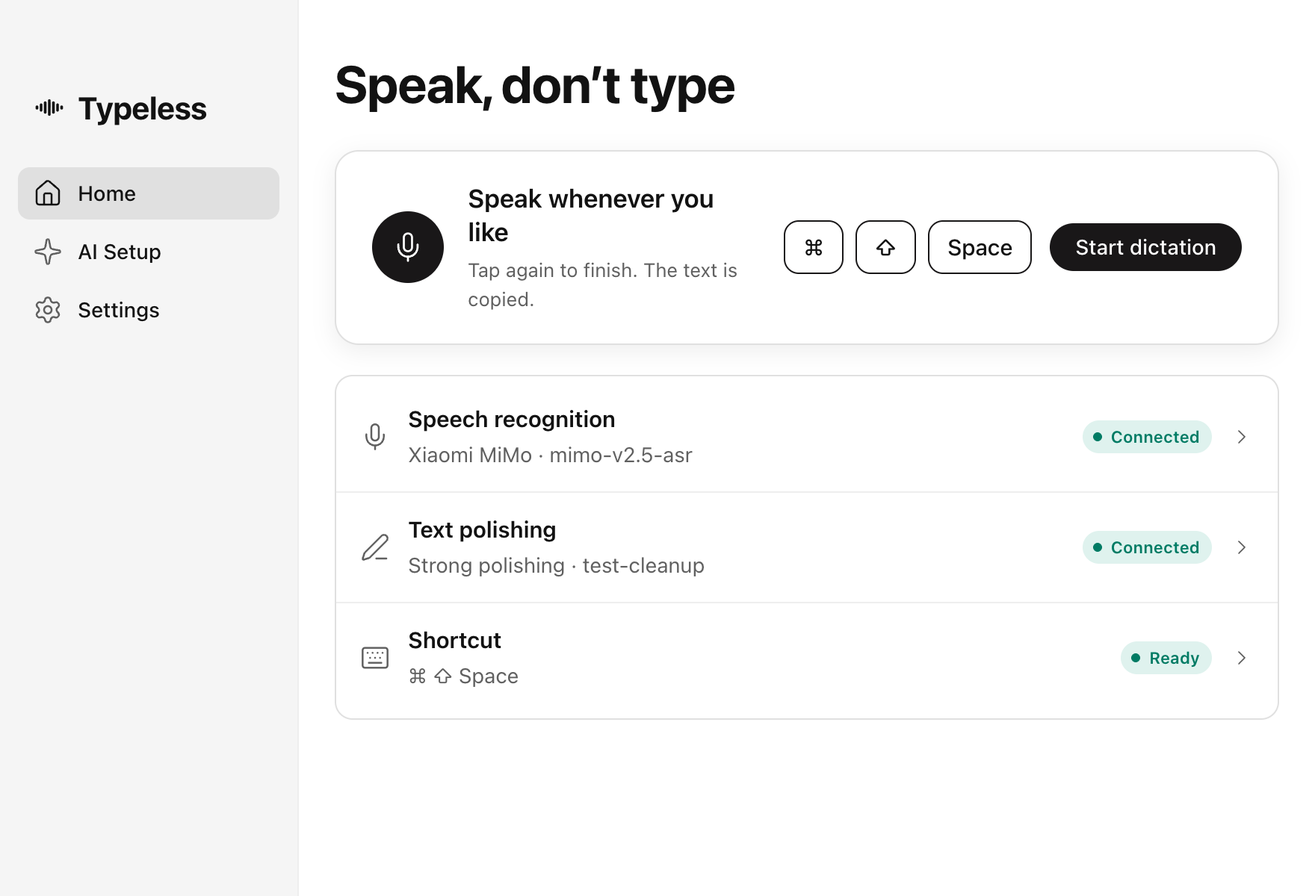
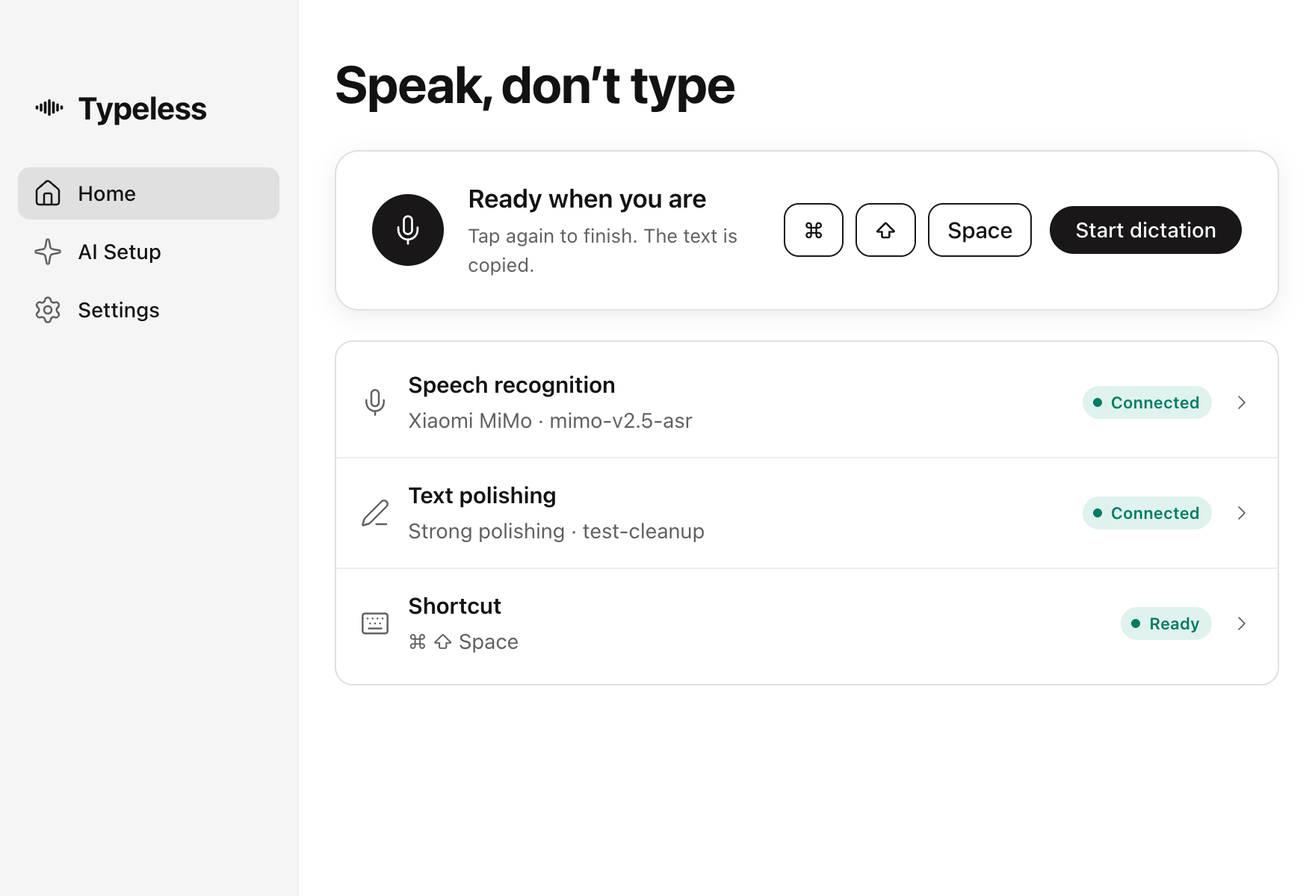
Review the English interface copy and release 2.3.0
- Re-read every English string against its Chinese source and revise 26
  of them: natural wording for titles and hints (Ready when you are,
  Stop dictation, detect the Fn key), shorter badge texts, consistent
  "System input helper", and US spelling throughout the catalogue
- Bump the version to 2.3.0, point the user guide, proposal and
  validation record at the new packages, and record the 2.3.0
  verification: 115 unit tests, 41 desktop e2e checks and 5 delivery
  scenarios in development and from the mounted DMG
- Refresh the English and 基本设置 screenshots from the 2.3.0 run

diff --git a/src/renderer/i18n/messages/onboarding.ts b/src/renderer/i18n/messages/onboarding.ts
@@ -99,7 +99,7 @@ export const onboarding = defineMessages({
     'onboarding.reopen': 'Reopen Typeless',
 
     'onboarding.welcome.title': 'Welcome to Typeless',
-    'onboarding.welcome.subtitle': 'Speak instead of typing',
+    'onboarding.welcome.subtitle': 'Speak, don\u2019t type',
     'onboarding.welcome.start': 'Get started',
     'onboarding.welcome.skip': 'Skip the guide',
 
@@ -117,16 +117,16 @@ export const onboarding = defineMessages({
     'onboarding.permissions.inputMonitoring': 'Shortcut still not working? Use Input Monitoring instead',
     'onboarding.permissions.why': 'Why this permission is needed',
     'onboarding.permissions.privacyCaption': 'System Settings → Privacy & Security',
-    'onboarding.permissions.stale': 'The system shows the permission as granted, but Fn listening is not active yet. Reopen Typeless first. If it still shows as pending, the grant is left over from an earlier version: remove Typeless from Accessibility and Input Monitoring under System Settings → Privacy & Security, then add it again.',
+    'onboarding.permissions.stale': 'The system shows the permission as granted, but Fn is not being detected yet. Reopen Typeless first. If it still shows as pending, the grant is left over from an earlier version: remove Typeless from Accessibility and Input Monitoring under System Settings → Privacy & Security, then add it again.',
     'onboarding.permissions.microphone.title': 'Allow Typeless to use the microphone',
     'onboarding.permissions.microphone.body': 'The microphone is used only while you dictate with the shortcut.',
     'onboarding.permissions.microphone.hint': 'System Settings → Privacy & Security → Microphone → turn on Typeless',
     'onboarding.permissions.microphone.denied': 'The system denied microphone access. Turn it on in System Settings, then come back.',
-    'onboarding.permissions.accessibility.title': 'Allow Typeless to paste text and watch the Fn key',
-    'onboarding.permissions.accessibility.body': 'Typeless needs Accessibility to paste the result into the current text field and to recognise a single Fn press.',
+    'onboarding.permissions.accessibility.title': 'Allow Typeless to paste text and detect the Fn key',
+    'onboarding.permissions.accessibility.body': 'Typeless needs Accessibility to paste the result into the current text field and to detect a single Fn press.',
     'onboarding.permissions.accessibility.hint': 'System Settings → Privacy & Security → Accessibility → turn on Typeless',
     'onboarding.permissions.helper.title': 'Enable the system input helper',
-    'onboarding.permissions.helper.body': 'Typeless uses a built-in helper to recognise Right Alt and paste text. No extra permission is needed.',
+    'onboarding.permissions.helper.body': 'Typeless uses a built-in helper to recognize Right Alt and paste text. No extra permission is needed.',
     'onboarding.permissions.helper.denied': 'The helper is unavailable. Use the fallback shortcut for now.',
 
     'onboarding.microphone.title': 'Say a few words to test the microphone',
@@ -134,7 +134,7 @@ export const onboarding = defineMessages({
     'onboarding.microphone.prompt': 'Do the blue bars move while you speak?',
     'onboarding.microphone.systemDefault': 'System default',
     'onboarding.microphone.device': 'Microphone {index}',
-    'onboarding.microphone.failed': 'Could not use the microphone. Check whether another app is holding it.',
+    'onboarding.microphone.failed': 'Could not use the microphone. Check whether another app is using it.',
     'onboarding.microphone.detected': 'Sound detected',
     'onboarding.microphone.needsPermission': 'First allow Typeless to use the microphone',
 
@@ -145,15 +145,15 @@ export const onboarding = defineMessages({
     'onboarding.shortcut.pressNow': 'Press {key} now',
     'onboarding.shortcut.detected': '{key} detected',
     'onboarding.shortcut.fallback': 'Fallback shortcut',
-    'onboarding.shortcut.working': 'The shortcut works.',
-    'onboarding.shortcut.notReady': '{key} listening is not ready yet. Use the fallback shortcut for now, and check Settings later.',
+    'onboarding.shortcut.working': 'Great, the shortcut works.',
+    'onboarding.shortcut.notReady': '{key} is not being detected yet. Use the fallback shortcut for now; you can check again in Settings later.',
     'onboarding.shortcut.fallbackRow': 'Fallback shortcut · always available',
 
-    'onboarding.capsule.caption': 'It appears at the bottom of the screen while you dictate',
+    'onboarding.capsule.caption': 'Appears at the bottom of the screen while you dictate',
 
     'onboarding.done.readyTitle': 'Everything is ready',
     'onboarding.done.pendingTitle': 'One last step',
-    'onboarding.done.pendingSubtitle': 'Connect a speech recognition service and you can speak in any app.',
+    'onboarding.done.pendingSubtitle': 'Connect a speech recognition service, then speak in any app.',
     'onboarding.done.later': 'Later',
     'onboarding.done.start': 'Start using Typeless',
     'onboarding.done.connect': 'Connect AI services',
@@ -170,10 +170,10 @@ export const onboarding = defineMessages({
     'onboarding.status.unavailable': 'Unavailable',
     'onboarding.status.unavailableNow': 'Unavailable right now',
     'onboarding.status.coveredByAccessibility': 'Covered by Accessibility',
-    'onboarding.status.helperReconnecting': 'The helper is reconnecting',
+    'onboarding.status.helperReconnecting': 'Helper reconnecting',
     'onboarding.status.accessibilityNeeded': 'Grant Accessibility (after an update, remove the old entry and add it again)',
-    'onboarding.status.tapInactive': 'Listening is not active. Check the permissions.',
-    'onboarding.status.relaunchRequired': 'Granted, but listening is not active',
-    'onboarding.status.bindingMismatch': 'The shortcut change has not taken effect',
+    'onboarding.status.tapInactive': 'Not listening yet. Check the permissions.',
+    'onboarding.status.relaunchRequired': 'Granted, but not listening yet',
+    'onboarding.status.bindingMismatch': 'Shortcut change not applied yet',
   },
 });

diff --git a/src/renderer/i18n/messages/settings.ts b/src/renderer/i18n/messages/settings.ts
@@ -125,12 +125,12 @@ export const settings = defineMessages({
     'settings.providers.saving': 'Saving…',
     'settings.providers.saveRejected': 'Save failed. Check the service settings and try again.',
     'settings.providers.saveFailed': 'Save failed. Please try again.',
-    'settings.providers.removeFailed': 'Remove failed. Please try again.',
+    'settings.providers.removeFailed': 'Could not remove the key. Please try again.',
 
     'settings.writing.level.label': 'Polishing level',
     'settings.writing.instructions.label': 'Personal instructions',
     'settings.writing.instructions.placeholder': 'For example: keep English technical terms, and write in simplified Chinese.',
-    'settings.writing.instructions.inactive': 'Takes effect once polishing is on. Your text is kept either way.',
+    'settings.writing.instructions.inactive': 'Takes effect once polishing is on; your instructions are kept in the meantime.',
     'settings.writing.instructions.hint': 'Saves when you leave the field, or press ⌘ / Ctrl + Enter.',
 
     'settings.autosave.saving': 'Saving…',
@@ -140,7 +140,7 @@ export const settings = defineMessages({
     'settings.shortcut.group': 'Shortcut',
     'settings.shortcut.primary.label': 'Primary shortcut',
     'settings.shortcut.primary.description': 'Tap once to start, tap again to stop.',
-    'settings.shortcut.primary.option': '{key} · tap to start, tap to stop',
+    'settings.shortcut.primary.option': '{key} · tap to start or stop',
     'settings.shortcut.primary.off': 'Off',
     'settings.shortcut.reopen': 'Reopen Typeless',
     'settings.shortcut.fallback.label': 'Fallback shortcut',
@@ -188,8 +188,8 @@ export const settings = defineMessages({
     'settings.about.downloading': 'Downloading…',
     'settings.about.openInstaller': 'Open installer',
     'settings.about.releaseNotes': 'Release notes',
-    'settings.about.install.windows': 'Unzip it, run Typeless.exe and overwrite the old files.',
-    'settings.about.install.mac': 'Open the installer, drag Typeless into the Applications folder and reopen it. After an upgrade you have to allow Accessibility again.',
+    'settings.about.install.windows': 'Unzip the archive, replacing the old files, then run Typeless.exe.',
+    'settings.about.install.mac': 'Open the installer, drag Typeless into the Applications folder and reopen it. After upgrading, allow Accessibility again.',
     'settings.about.error.network': 'Could not reach GitHub. Please try again later.',
     'settings.about.error.invalidResponse': 'GitHub returned a response that could not be read.',
     'settings.about.error.noAsset': 'This release has no installer for your system.',

diff --git a/src/renderer/i18n/messages/session.ts b/src/renderer/i18n/messages/session.ts
@@ -60,17 +60,17 @@ export const session = defineMessages({
     'session.recovery.asr_429': 'Too many requests to the speech service. Try again in a moment.',
     'session.recovery.asr_network': 'Could not reach the speech service. Check the network and the service address.',
     'session.recovery.asr_timeout': 'The speech service timed out. You can retry; a retry may be billed again.',
-    'session.recovery.asr_audio': 'The recording could not be recognised. Record it again.',
+    'session.recovery.asr_audio': 'The recording could not be recognized. Record it again.',
     'session.recovery.asr_failed': 'Speech recognition did not finish. Try again later.',
     'session.recovery.asr_provider': 'The speech service returned no usable text. Record again or retry.',
     'session.recovery.clipboard_copy_failed': 'Automatic copying failed. The text is kept below and can be copied again.',
-    'session.recovery.cancelled': 'Recording cancelled.',
+    'session.recovery.cancelled': 'Recording canceled.',
     'session.recovery.asr_5xx': 'The speech service is temporarily unavailable. Try again later.',
     'session.recovery.generic': 'Dictation did not finish. Try again; if it keeps failing, check the model and microphone settings.',
     'session.recovery.copiedReady': 'Copied. You can paste it now.',
     'session.recovery.textKept': 'The text is kept and can be copied below.',
-    'session.warning.cleanupNotConfigured': 'No polishing model is set up, so the recognised text was kept as is.',
-    'session.warning.cleanupFailed': 'Polishing did not finish, so the recognised text was kept as is.',
+    'session.warning.cleanupNotConfigured': 'No polishing model is set up, so the recognized text was kept as is.',
+    'session.warning.cleanupFailed': 'Polishing did not finish, so the recognized text was kept as is.',
     'session.warning.numbersChanged': 'Numbers changed during polishing. Compare with the original.',
     'session.warning.expanded': 'The polished text is much longer. Compare with the original.',
     'session.warning.formatting': 'The result contains extra formatting. Compare with the original.',

diff --git a/src/renderer/i18n/messages/home.ts b/src/renderer/i18n/messages/home.ts
@@ -59,7 +59,7 @@ export const home = defineMessages({
     'home.status.ready': 'Ready',
     'home.status.unavailable': 'Unavailable',
     'home.dictation.region': 'Dictation',
-    'home.dictation.readyTitle': 'Speak whenever you like',
+    'home.dictation.readyTitle': 'Ready when you are',
     'home.dictation.setupTitle': 'Connect your AI model first',
     'home.dictation.setupHint': 'Set up speech recognition; polishing is optional.',
     'home.dictation.shortcutUnavailable': 'The shortcut is unavailable right now; use the button instead.',
@@ -67,7 +67,7 @@ export const home = defineMessages({
     'home.dictation.finishCopy': 'Tap again to finish. The text is copied.',
     'home.dictation.listening': 'Listening · {time}',
     'home.dictation.start': 'Start dictation',
-    'home.dictation.stop': 'Stop',
+    'home.dictation.stop': 'Stop dictation',
     'home.dictation.processing': 'Processing',
     'home.dictation.configure': 'Set up speech',
     'home.dictation.cancel': 'Cancel dictation',
@@ -84,7 +84,7 @@ export const home = defineMessages({
     'home.session.inserting': 'Copying and pasting',
     'home.session.ready': 'Result ready',
     'home.session.error': 'Did not finish',
-    'home.session.cancelled': 'Recording cancelled',
+    'home.session.cancelled': 'Recording canceled',
     'home.overlay.processing': 'Processing',
     'home.overlay.thinking': 'Thinking',
     'home.overlay.finish': 'Finish dictation',

diff --git a/src/renderer/i18n/messages/common.ts b/src/renderer/i18n/messages/common.ts
@@ -49,12 +49,12 @@ export const common = defineMessages({
     'common.shell.connectionLost': 'Connection lost. Please try again.',
     'common.shell.copyFailed': 'Copy failed. Please try again.',
     'common.shell.dictationIncomplete': 'Dictation did not finish. See the note above.',
-    'common.shell.actionFailed': 'The action did not complete. Please try again.',
+    'common.shell.actionFailed': 'The action could not be completed. Please try again.',
     'common.shell.dismiss': 'Dismiss',
     'common.shell.previewBanner': 'Interface preview · no model calls, no saved keys',
     'common.shell.previewOnly': 'Recording and system features work in the desktop app only.',
     'common.writing.none.label': 'No polishing',
-    'common.writing.none.hint': 'Keep the transcript as recognised; the polishing model is not called.',
+    'common.writing.none.hint': 'Keep the transcript as recognized; the polishing model is not called.',
     'common.writing.light.label': 'Light polishing',
     'common.writing.light.hint': 'Remove fillers and small repetitions; keep your own wording.',
     'common.writing.strong.label': 'Strong polishing',

diff --git a/docs/VALIDATION.md b/docs/VALIDATION.md
@@ -1,6 +1,6 @@
-# Version 2.2.1 Validation
+# Version 2.3.0 Validation
 
-Reviewed on 2026-09-18 for 2.0.0 and revised on 2026-09-22 for the 2.1.1 packages (setup guide, stale-grant guidance) and again the same day for the 2.2.0 packages (white simplified interface, three destinations, release check) and the 2.2.1 packages (关于 row note placement, live release check); on 2026-09-23 the bilingual interface, the user-facing README and the MIT license were verified on the source tree without a new package. The 2.0.0 evidence in this section is kept for the dictation behaviour it qualifies; the interface it photographed has since been simplified as recorded in the 2.2.0 section below. This record covers the dictation product with the redesigned interface: the two-column shell specified in [UI design](UI_DESIGN.md) (**首页**, **AI 配置**, **基本设置**, **表达风格**), grouped setting rows, and the black voice capsule. Recording, ASR, optional polishing, retained clipboard output and optional paste into the current foreground application are unchanged from 0.1.5. Historical receipts for earlier versions remain in Git and do not qualify this version.
+Reviewed on 2026-09-18 for 2.0.0 and revised on 2026-09-22 for the 2.1.1 packages (setup guide, stale-grant guidance) and again the same day for the 2.2.0 packages (white simplified interface, three destinations, release check) and the 2.2.1 packages (关于 row note placement, live release check); on 2026-09-23 the 2.3.0 packages (bilingual interface, user-facing README, MIT license) were verified. The 2.0.0 evidence in this section is kept for the dictation behaviour it qualifies; the interface it photographed has since been simplified as recorded in the 2.2.0 section below. This record covers the dictation product with the redesigned interface: the two-column shell specified in [UI design](UI_DESIGN.md) (**首页**, **AI 配置**, **基本设置**, **表达风格**), grouped setting rows, and the black voice capsule. Recording, ASR, optional polishing, retained clipboard output and optional paste into the current foreground application are unchanged from 0.1.5. Historical receipts for earlier versions remain in Git and do not qualify this version.
 
 ## Current evidence
 
@@ -92,32 +92,33 @@ Requested after the live GitHub verification recorded above. Source changes: `sr
 - The 2.2.1 packages themselves were not pointed at the live GitHub endpoint; the live observations above used the packaged 2.2.0 build and checker code that did not change in 2.2.1. A 2.2.0 installation showing the 有新版本 2.2.1 pill after Release v2.2.1 is published has not been observed yet.
 - The 2.2.0 limits (asset rule coverage, unphotographed `downloading` / `error` states, Windows runtime) still apply.
 
-## Bilingual interface, user-facing README and MIT license (source tree, 2026-09-23)
+## Bilingual interface, user-facing README and MIT license (2.3.0, 2026-09-23)
 
-Requested after 2.2.1: every piece of interface copy in Chinese and English with a user-facing switch, a short README for GitHub visitors with the build content moved to [Development](DEVELOPMENT.md), and the MIT license. Specified in [UI design](UI_DESIGN.md) section 14. Dictation, providers, storage and the guide flow are unchanged; the settings schema gains `general.language` (default `zh`). No package was built for this change; the checks below ran on the source tree.
+Requested after 2.2.1: every piece of interface copy in Chinese and English with a user-facing switch, a short README for GitHub visitors with the build content moved to [Development](DEVELOPMENT.md), and the MIT license. Specified in [UI design](UI_DESIGN.md) section 14. Dictation, providers, storage and the guide flow are unchanged; the settings schema gains `general.language` (default `zh`). The maintainer then re-read every English string against its Chinese source and revised 26 of them (wording, badge length, US spelling) before the 2.3.0 packages were built; the rows below are the runs on that final source.
 
 | Check | Result and scope |
 | --- | --- |
 | Source and build | `npm run typecheck` clean. `npm run build` completed its native, typecheck, Vite and esbuild steps before the Electron runs. `grep` finds no Chinese string literal outside `src/renderer/i18n/messages/` and the main process's tray-menu table; the remaining Chinese in source is comments naming labels. |
-| Automated regressions | `npm test`: **115 tests in 13 files passed** (109 before). New `tests/i18n.test.ts` checks that both languages hold the same keys with non-empty text, that no English string contains CJK (apart from the language name 中文), that placeholders match, and that `translate()` fills them. `tests/session-presentation.test.ts` passes the language and adds an English case; `tests/core-store.test.ts` rejects an unknown language and reloads a saved one. |
-| Desktop integration | `npm run test:desktop`: **41 checks passed with 4 mock HTTP requests**, receipt [`.local/desktop-e2e-EWKlkI/result.json`](../.local/desktop-e2e-EWKlkI/result.json). New checks: `welcome-language-toggle` (during the guide rerun the welcome link switches to English, the guide's `aria-label` becomes `Setup guide` and the heading `Welcome to Typeless`, then back) and `language-switch-english-pages` (on 基本设置 the 语言 control switches to English; the navigation is `Main navigation`, `document.documentElement.lang` is `en`, the 关于 row shows its English state, and the three pages at 880 × 600 neither overflow horizontally nor show any Chinese text other than the 中文 option; switching back restores `主导航` and `zh-CN`). Two earlier attempts failed on the stage's own assumptions (the restart before it had reset the release check, and the 中文 option label is legitimately Chinese); both were assertion fixes, not source changes. Every earlier check remains, in Chinese. |
-| Delivery | `npm run test:delivery` on the same source: **5 scenarios passed**, clipboard restored, receipt [`.local/delivery-e2e-UW54wD/result.json`](../.local/delivery-e2e-UW54wD/result.json). |
-| Visual review | The English 首页, AI Setup and 基本设置 screenshots from the desktop run were inspected at the minimum window: the dictation card title wraps to two lines and nothing overflows. [首页 in English](screenshots/home-en.png) and [AI Setup in English](screenshots/settings-ai-en.png) are kept. |
+| Automated regressions | `npm test`: **115 tests in 13 files passed** (109 before); `native/bin/typeless-native --self-test` passed. New `tests/i18n.test.ts` checks that both languages hold the same keys with non-empty text, that no English string contains CJK (apart from the language name 中文), that placeholders match, and that `translate()` fills them. `tests/session-presentation.test.ts` passes the language and adds an English case; `tests/core-store.test.ts` rejects an unknown language and reloads a saved one. |
+| Development desktop integration | `npm run test:desktop` on the final source: **41 checks passed with 4 mock HTTP requests**, receipt [`.local/desktop-e2e-fKUB4q/result.json`](../.local/desktop-e2e-fKUB4q/result.json) (an earlier pass on the pre-review copy: [`.local/desktop-e2e-EWKlkI`](../.local/desktop-e2e-EWKlkI/result.json)). New checks: `welcome-language-toggle` (during the guide rerun the welcome link switches to English, the guide's `aria-label` becomes `Setup guide` and the heading `Welcome to Typeless`, then back) and `language-switch-english-pages` (on 基本设置 the 语言 control switches to English; the navigation is `Main navigation`, `document.documentElement.lang` is `en`, the 关于 row shows its English state, and the three pages at 880 × 600 neither overflow horizontally nor show any Chinese text other than the 中文 option; switching back restores `主导航` and `zh-CN`). Two earlier attempts failed on the stage's own assumptions (the restart before it had reset the release check, and the 中文 option label is legitimately Chinese); both were assertion fixes, not source changes. Every earlier check remains, in Chinese. |
+| Development delivery | `npm run test:delivery` on the final source: **5 scenarios passed**, clipboard restored, receipt [`.local/delivery-e2e-Uw3d5p/result.json`](../.local/delivery-e2e-Uw3d5p/result.json). |
+| Packaged macOS desktop integration | Application launched from the read-only mounted 2.3.0 DMG: **41 checks passed with 4 mock HTTP requests**, receipt [`.local/desktop-e2e-BC0V2n/result.json`](../.local/desktop-e2e-BC0V2n/result.json), including both language checks. |
+| Packaged macOS delivery | Same mounted application: **5 scenarios passed**, clipboard restored, receipt [`.local/delivery-e2e-KKSLUr/result.json`](../.local/delivery-e2e-KKSLUr/result.json). |
+| Visual review | The English 首页, AI Setup and 基本设置 screenshots from the desktop run were inspected at the minimum window: nothing overflows and the dictation card title fits on one line after the wording review. [首页 in English](screenshots/home-en.png) and [AI Setup in English](screenshots/settings-ai-en.png) are kept; [基本设置](screenshots/settings-basic.png) was refreshed from the 2.3.0 run. |
 
 ### Limits of this record
 
-- The English copy was reviewed by reading, not by an English-speaking user; wording may still be improved.
+- The English copy was reviewed twice by reading (once per string against its Chinese source), not by an English-speaking user.
 - The tray menu and the capsule context menu follow the setting, but no automated test drives a tray menu; the rebuild was verified by reading the code.
-- The published 2.2.1 packages predate this change and remain Chinese-only.
 
 ## Artifact ledger
 
 | Artifact | Status | Bytes | SHA-256 |
 | --- | --- | ---: | --- |
[4 lines of base64/hex data omitted]
 
-The DMG passed `hdiutil verify`, read-only mounting and `codesign --verify --deep --strict` on both the unpacked and the mounted application. Its Applications link targets `/Applications`, its bundle reports version 2.2.1 and a minimum macOS of 13.0, and its `app.asar` is byte-identical between the unpacked and mounted copies. The bundled native helper shares UUID `20692AF1-EF68-3EC3-A489-D68F00254486` with the source build (unchanged since 2.1.1). The image was ejected after the runtime checks.
+The DMG passed `hdiutil verify`, read-only mounting and `codesign --verify --deep --strict` on both the unpacked and the mounted application. Its Applications link targets `/Applications`, its bundle reports version 2.3.0 and a minimum macOS of 13.0, and its `app.asar` is byte-identical between the unpacked and mounted copies. The bundled native helper shares UUID `20692AF1-EF68-3EC3-A489-D68F00254486` with the source build (unchanged since 2.1.1). The image was ejected after the runtime checks.
 
 The Windows ZIP passed `unzip -t`; `Typeless.exe` is present and unsigned; `resources/native/windows/Helper.cs` is byte-identical to the source file, and `resources/app.asar` is byte-identical to the macOS bundle's. macOS is ad-hoc signed without Developer ID or notarization. Windows is unsigned. [Release metadata](../release/artifacts.json) records the final artifacts and acceptance boundaries.
 
@@ -142,12 +143,12 @@ Both Electron harnesses create isolated `.local/` profiles and use fake audio, m
 cd path/to/Typeless
 npm run package:mac
 npm run package:win
-hdiutil verify release/Typeless-2.2.1-arm64.dmg
+hdiutil verify release/Typeless-2.3.0-arm64.dmg
 codesign --verify --deep --strict --verbose=2 release/mac-arm64/Typeless.app
-unzip -t release/Typeless-2.2.1-win.zip
-shasum -a 256 release/Typeless-2.2.1-arm64.dmg release/Typeless-2.2.1-win.zip
+unzip -t release/Typeless-2.3.0-win.zip
+shasum -a 256 release/Typeless-2.3.0-arm64.dmg release/Typeless-2.3.0-win.zip
 mkdir -p .cache/dmg-acceptance
-hdiutil attach -readonly -nobrowse -mountpoint .cache/dmg-acceptance release/Typeless-2.2.1-arm64.dmg
+hdiutil attach -readonly -nobrowse -mountpoint .cache/dmg-acceptance release/Typeless-2.3.0-arm64.dmg
 codesign --verify --deep --strict --verbose=2 .cache/dmg-acceptance/Typeless.app
 TYPELESS_EXECUTABLE="$PWD/.cache/dmg-acceptance/Typeless.app/Contents/MacOS/Typeless" npm run test:desktop
 TYPELESS_EXECUTABLE="$PWD/.cache/dmg-acceptance/Typeless.app/Contents/MacOS/Typeless" npm run test:delivery

diff --git a/docs/PROPOSAL.md b/docs/PROPOSAL.md
@@ -1,6 +1,6 @@
 # Typeless: current product scope and implementation plan
 
-Date: 2026-09-18, revised 2026-09-22. Target version: 2.2.1. This document records the reduced product decision. Actual package availability and completed acceptance belong in [Validation](VALIDATION.md), not in this proposal.
+Date: 2026-09-18, revised 2026-09-23. Target version: 2.3.0. This document records the reduced product decision. Actual package availability and completed acceptance belong in [Validation](VALIDATION.md), not in this proposal.
 
 ## Product direction
 
@@ -96,6 +96,6 @@ Implementation and validation are separate. Required checks include:
 
 Unit and mock-provider Electron tests exercise contracts and application behavior. Native editor tests, physical shortcut tests, real microphones, live providers, Windows runtime and packaged installation are separate acceptance boundaries. Test scripts and proposed checks must not be reported as completed results until executed.
 
-Version 2.2.1 packaging targets macOS Apple silicon DMG and Windows x64 portable ZIP. Package builds do not imply signing, notarization, publication or platform-runtime acceptance. The application checks GitHub Releases for a newer version and downloads its installer on request, verifying the published digest; it never replaces itself, because ad-hoc signed builds must be reinstalled and re-authorized by hand. The [development guide](DEVELOPMENT.md) supplies commands and output paths; [Validation](VALIDATION.md) records the evidence.
+Version 2.3.0 packaging targets macOS Apple silicon DMG and Windows x64 portable ZIP. Package builds do not imply signing, notarization, publication or platform-runtime acceptance. The application checks GitHub Releases for a newer version and downloads its installer on request, verifying the published digest; it never replaces itself, because ad-hoc signed builds must be reinstalled and re-authorized by hand. The [development guide](DEVELOPMENT.md) supplies commands and output paths; [Validation](VALIDATION.md) records the evidence.
 
 Provider cost is the chosen ASR usage plus the selected text model's input/output usage when polishing is enabled. No fixed price or latency is promised. Direct provider access requires no application-hosting backend.

diff --git a/docs/USER_GUIDE.md b/docs/USER_GUIDE.md
@@ -4,7 +4,7 @@ This guide describes the reduced dictation interface. UI labels are shown in Chi
 
 ## Open the application
 
-The 2.2.1 package output locations are [Typeless-2.2.1-arm64.dmg](../release/Typeless-2.2.1-arm64.dmg) for Apple silicon macOS and [Typeless-2.2.1-win.zip](../release/Typeless-2.2.1-win.zip) for Windows x64. Consult Validation for availability and verification. On macOS, quit any existing instance, drag `Typeless.app` into Applications, eject the disk image, and launch the installed app. The local build is ad-hoc signed, not Developer ID signed or notarized, so macOS warns on first launch that the developer cannot be verified; allow the app under 系统设置 → 隐私与安全性. On Windows, extract the entire portable archive and run `Typeless.exe` with its companion files intact; SmartScreen may ask for confirmation because the build is unsigned.
+The 2.3.0 package output locations are [Typeless-2.3.0-arm64.dmg](../release/Typeless-2.3.0-arm64.dmg) for Apple silicon macOS and [Typeless-2.3.0-win.zip](../release/Typeless-2.3.0-win.zip) for Windows x64. Consult Validation for availability and verification. On macOS, quit any existing instance, drag `Typeless.app` into Applications, eject the disk image, and launch the installed app. The local build is ad-hoc signed, not Developer ID signed or notarized, so macOS warns on first launch that the developer cannot be verified; allow the app under 系统设置 → 隐私与安全性. On Windows, extract the entire portable archive and run `Typeless.exe` with its companion files intact; SmartScreen may ask for confirmation because the build is unsigned.
 
 To run from source, follow the [development guide](DEVELOPMENT.md). The first run contains no API keys.
 
